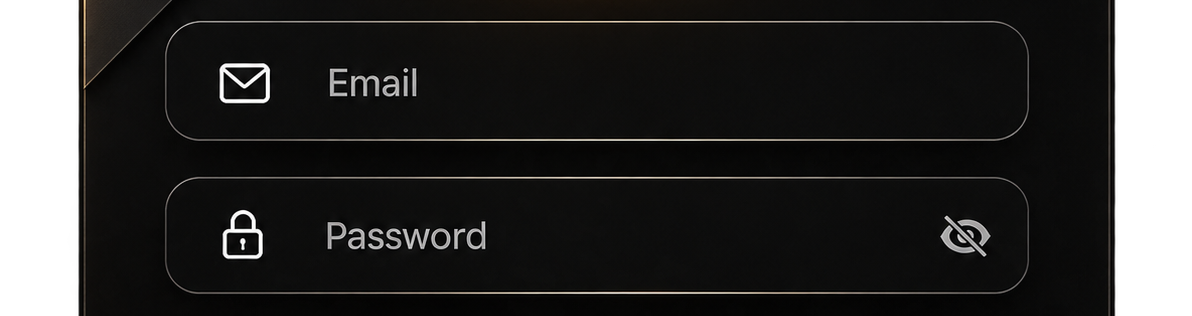
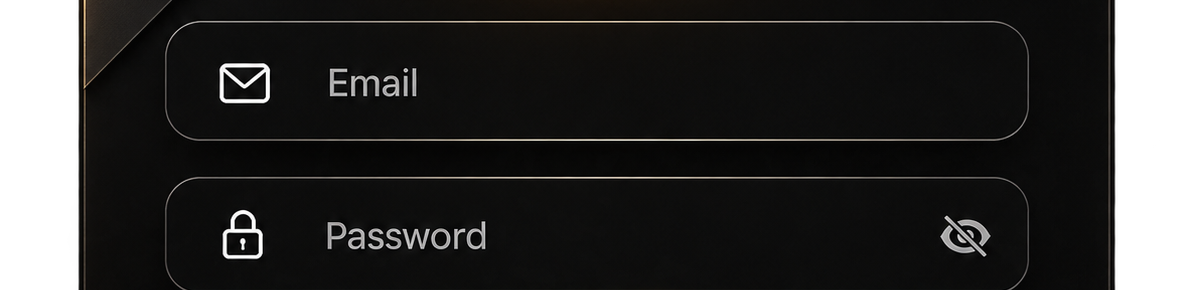
Fit the sign-in card's reCAPTCHA and restore its place.
The checkbox fills the painted frame, signup fields stay intact, the corner mark is the Forge F, and the card sits on its original margin.

diff --git a/src/features/auth/ForgeLoginPicture.tsx b/src/features/auth/ForgeLoginPicture.tsx
@@ -88,9 +88,9 @@ function FieldRow({
         display: "flex",
         alignItems: "center",
         gap: 1.25,
-        height: 48,
-        px: 1.6,
-        borderRadius: "14px",
+        height: "10cqw",
+        px: "2cqw",
+        borderRadius: "1.6cqw",
         border: "1px solid rgba(206,196,180,0.42)",
         bgcolor: "rgba(0,0,0,0.28)",
         boxShadow: "inset 0 1px 0 rgba(255,255,255,0.04), 0 10px 22px rgba(0,0,0,0.28)",
@@ -171,13 +171,13 @@ export function ForgeLoginPicture({
   const credentialHoles = (frame: "full" | "fields") => {
     const emailBox = frame === "full"
       ? { left: "25.2%", top: "37%", width: "57.9%", height: "7.58%" }
-      : { left: "25.2%", top: "10.1%", width: "57.9%", height: "31.6%" };
+      : { left: "25.2%", top: "11%", width: "57.9%", height: "34.4%" };
     const passwordBox = frame === "full"
       ? { left: "25.2%", top: "48.64%", width: "50.3%", height: "7.58%" }
-      : { left: "25.2%", top: "58.9%", width: "50.3%", height: "31.6%" };
+      : { left: "25.2%", top: "64.2%", width: "50.3%", height: "34.4%" };
     const eyeBox = frame === "full"
       ? { left: "77.6%", top: "49.6%", width: "6.7%", height: "6.1%" }
-      : { left: "77.6%", top: "63%", width: "6.7%", height: "22%" };
+      : { left: "77.6%", top: "68.6%", width: "6.7%", height: "24%" };
     return (
       <>
         <Box
@@ -212,36 +212,49 @@ export function ForgeLoginPicture({
     );
   };
   const footControls = (frame: "full" | "foot") => {
+    // Interior of the painted robot frame (807×182, inset so the border stays visible).
     const captcha = frame === "full"
-      ? { left: "16.4%", top: "60.6%", width: "67.2%", height: "8.8%" }
-      : { left: "16.4%", top: "5.1%", width: "67.2%", height: "21.2%" };
+      ? { left: "16.86%", top: "57.27%", width: "66.36%", height: "12.58%" }
+      : { left: "16.86%", top: "1.4%", width: "66.36%", height: "29.02%" };
     const button = frame === "full"
       ? { left: "14%", top: "74.1%", width: "72%", height: "9.2%" }
-      : { left: "14%", top: "37.6%", width: "72%", height: "22.6%" };
+      : { left: "14%", top: "40.2%", width: "72%", height: "21.7%" };
     const link = frame === "full"
       ? { left: "28%", top: "85.4%", width: "44%" }
-      : { left: "28%", top: "65%", width: "44%" };
+      : { left: "28%", top: "66.4%", width: "44%" };
     return (
       <>
         <Box
           sx={{
             position: "absolute",
             ...captcha,
-            display: "grid",
-            placeItems: "center",
             overflow: "hidden",
             bgcolor: "#070707",
-            borderRadius: "14px",
+            borderRadius: "1.5cqw",
           }}
         >
-          <Box sx={{ transform: "scale(calc(100cqw / 820px)) translateY(-36px)", transformOrigin: "center" }}>
+          <Box
+            sx={{
+              width: 304,
+              height: 78,
+              overflow: "hidden",
+              position: "relative",
+              transformOrigin: "top left",
+              transform:
+                "scaleX(calc(100cqw * 0.6636 / 304px)) scaleY(calc(100cqw * 0.1393 / 78px))",
+            }}
+          >
             <RecaptchaField
+              key={mode}
               onToken={(token) => {
                 setCaptchaToken(token);
                 if (token) setLocalError(null);
               }}
               onError={(next) => setLocalError(next)}
             />
+            {/* The test key paints a red line over the logo. Cover it; the checkbox starts lower. */}
+            <Box sx={{ position: "absolute", left: 0, top: 0, width: 304, height: 12, bgcolor: "#222", pointerEvents: "none" }} />
+            <Box sx={{ position: "absolute", left: 0, top: 12, width: 236, height: 11, bgcolor: "#222", pointerEvents: "none" }} />
           </Box>
         </Box>
         {message ? (
@@ -249,7 +262,7 @@ export function ForgeLoginPicture({
             sx={{
               position: "absolute",
               left: "16%",
-              top: frame === "full" ? "69.7%" : "31%",
+              top: frame === "full" ? "71.2%" : "33%",
               width: "68%",
               color: "#ffb4b4",
               fontSize: "2.2cqw",
@@ -290,6 +303,7 @@ export function ForgeLoginPicture({
           type="button"
           onClick={() => {
             setLocalError(null);
+            setCaptchaToken(null);
             onMode(mode === "login" ? "signup" : "login");
           }}
           sx={{
@@ -345,9 +359,7 @@ export function ForgeLoginPicture({
           display: "flex",
           alignItems: "center",
           justifyContent: { xs: "center", md: "flex-end" },
-          // The artwork keeps a wider dark margin on the right of the card than 7vw.
-          pl: { xs: 2, md: 2 },
-          pr: { xs: 2, md: "11vw" },
+          px: { xs: 2, md: "7vw" },
           py: 3,
           overflow: "auto",
         }}
@@ -356,25 +368,21 @@ export function ForgeLoginPicture({
           <Box
             component="a"
             href="?view=landing"
+            aria-label="Forge"
             sx={{
               position: "fixed",
               zIndex: 2,
               top: 16,
               left: 16,
-              color: "#f3ddb8",
-              textDecoration: "none",
-              fontSize: 13,
-              fontWeight: 600,
-              letterSpacing: "0.04em",
-              fontFamily: '"Segoe UI", "Helvetica Neue", Arial, sans-serif',
-              px: 1.4,
-              py: 0.6,
-              borderRadius: "999px",
-              bgcolor: "rgba(0,0,0,0.5)",
-              border: "1px solid rgba(240,200,140,0.28)",
+              lineHeight: 0,
             }}
           >
-            Landing
+            <Box
+              component="img"
+              src={brandSrc("forge-f.png")}
+              alt=""
+              sx={{ height: 52, width: "auto", display: "block" }}
+            />
           </Box>
         ) : null}
 
@@ -382,7 +390,10 @@ export function ForgeLoginPicture({
           component="form"
           onSubmit={submit}
           sx={{
-            width: "min(720px, calc((100dvh - 40px) / 1.108), 100%)",
+            width: mode === "signup"
+              ? "min(720px, calc((100dvh - 40px) / 1.36), 100%)"
+              : "min(720px, calc((100dvh - 40px) / 1.108), 100%)",
+            containerType: "inline-size",
             fontFamily: '"Segoe UI", "Helvetica Neue", Arial, sans-serif',
             color: "#f6f3ee",
           }}
@@ -395,8 +406,8 @@ export function ForgeLoginPicture({
                   backgroundImage: `url(${brandSrc("forge-form-side.png")})`,
                   backgroundRepeat: "repeat-y",
                   backgroundSize: "100% auto",
-                  px: "15.5%",
-                  py: 1.25,
+                  px: "7%",
+                  py: "1.2cqw",
                 }}
               >
                 <FieldRow
@@ -417,8 +428,8 @@ export function ForgeLoginPicture({
                   backgroundImage: `url(${brandSrc("forge-form-side.png")})`,
                   backgroundRepeat: "repeat-y",
                   backgroundSize: "100% auto",
-                  px: "15.5%",
-                  py: 1.25,
+                  px: "7%",
+                  py: "1.2cqw",
                 }}
               >
                 <FieldRow
